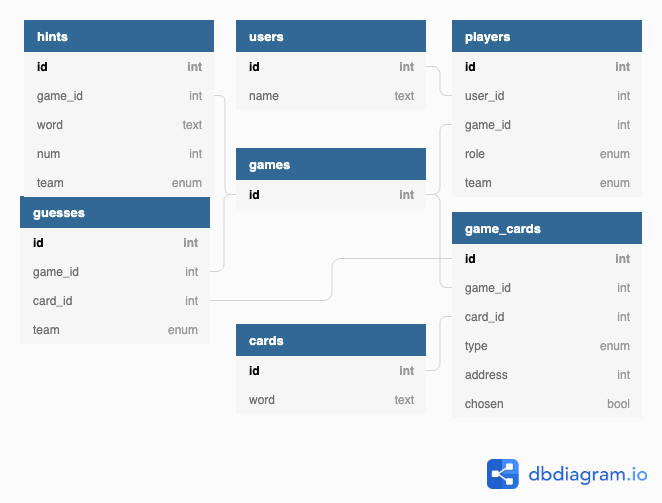
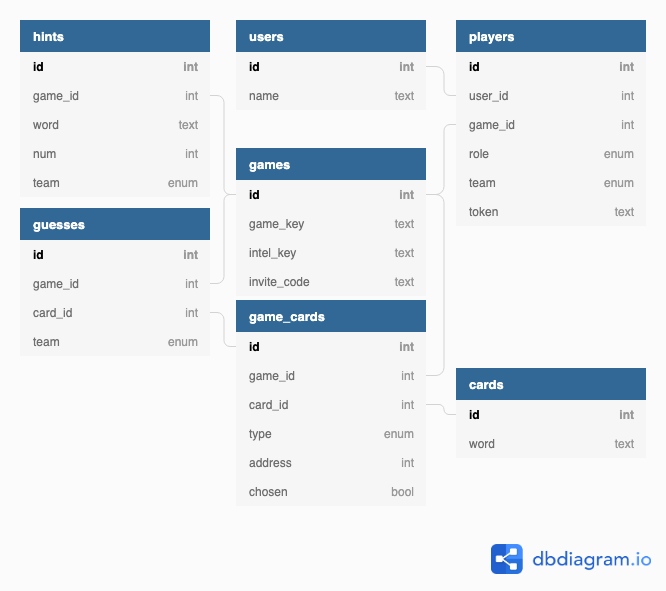
Update schema to add access control attributes

diff --git a/db/schema.rb b/db/schema.rb
@@ -34,8 +34,14 @@ ActiveRecord::Schema.define(version: 2019_07_15_202144) do
   end
 
   create_table "games", force: :cascade do |t|
+    t.string "game_key", null: false
+    t.string "intel_key", null: false
+    t.string "invite_code", null: false
     t.datetime "created_at", null: false
     t.datetime "updated_at", null: false
+    t.index ["game_key"], name: "index_games_on_game_key", unique: true
+    t.index ["intel_key"], name: "index_games_on_intel_key", unique: true
+    t.index ["invite_code"], name: "index_games_on_invite_code", unique: true
   end
 
   create_table "guesses", force: :cascade do |t|
@@ -63,9 +69,11 @@ ActiveRecord::Schema.define(version: 2019_07_15_202144) do
     t.bigint "game_id"
     t.integer "role"
     t.integer "team"
+    t.string "token", null: false
     t.datetime "created_at", null: false
     t.datetime "updated_at", null: false
     t.index ["game_id"], name: "index_players_on_game_id"
+    t.index ["token"], name: "index_players_on_token", unique: true
     t.index ["user_id"], name: "index_players_on_user_id"
   end
 

diff --git a/db/migrate/20190715201000_create_games.rb b/db/migrate/20190715201000_create_games.rb
@@ -1,6 +1,13 @@
 class CreateGames < ActiveRecord::Migration[5.2]
   def change
     create_table :games do |t|
+      t.string :game_key, null: false
+      t.string :intel_key, null: false
+      t.string :invite_code, null: false
+
+      t.index :game_key, unique: true
+      t.index :intel_key, unique: true
+      t.index :invite_code, unique: true
 
       t.timestamps
     end

diff --git a/db/migrate/20190715201208_create_players.rb b/db/migrate/20190715201208_create_players.rb
@@ -5,6 +5,9 @@ class CreatePlayers < ActiveRecord::Migration[5.2]
       t.references :game, foreign_key: true
       t.integer :role
       t.integer :team
+      t.string :token, null: false
+
+      t.index :token, unique: true
 
       t.timestamps
     end
